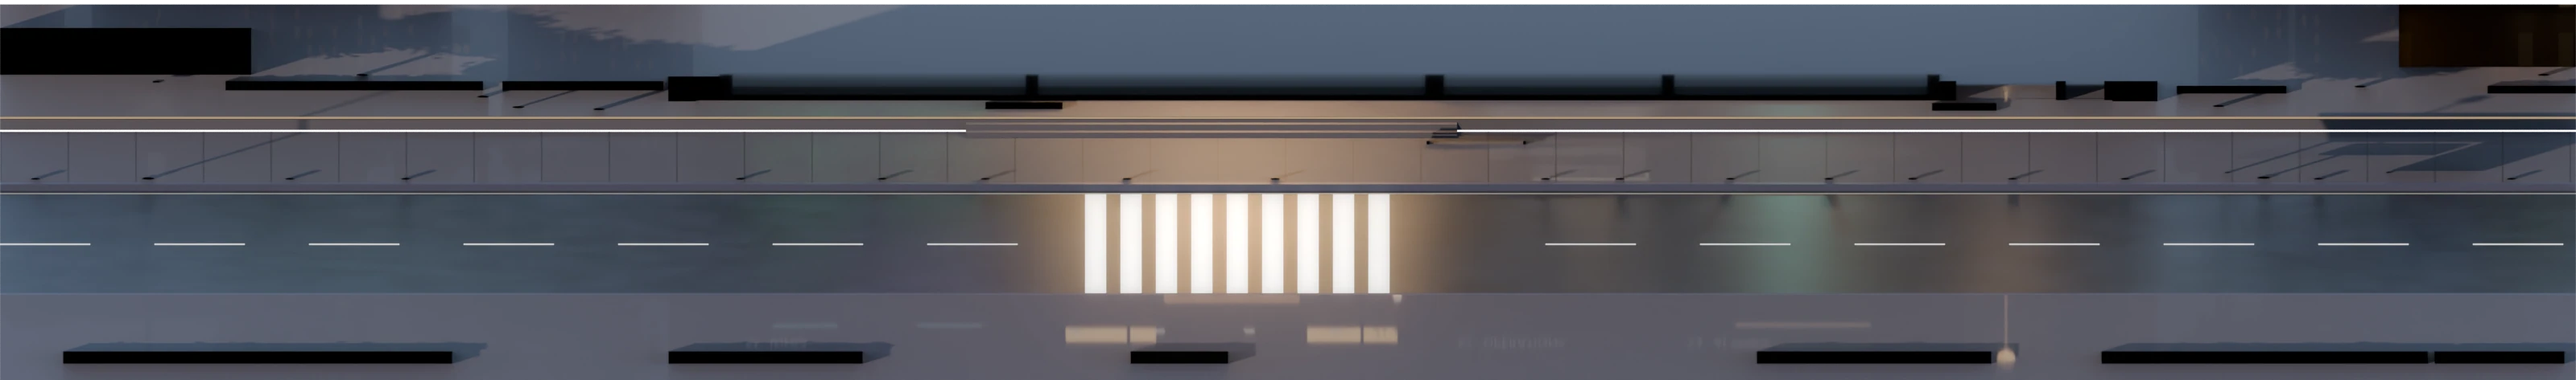
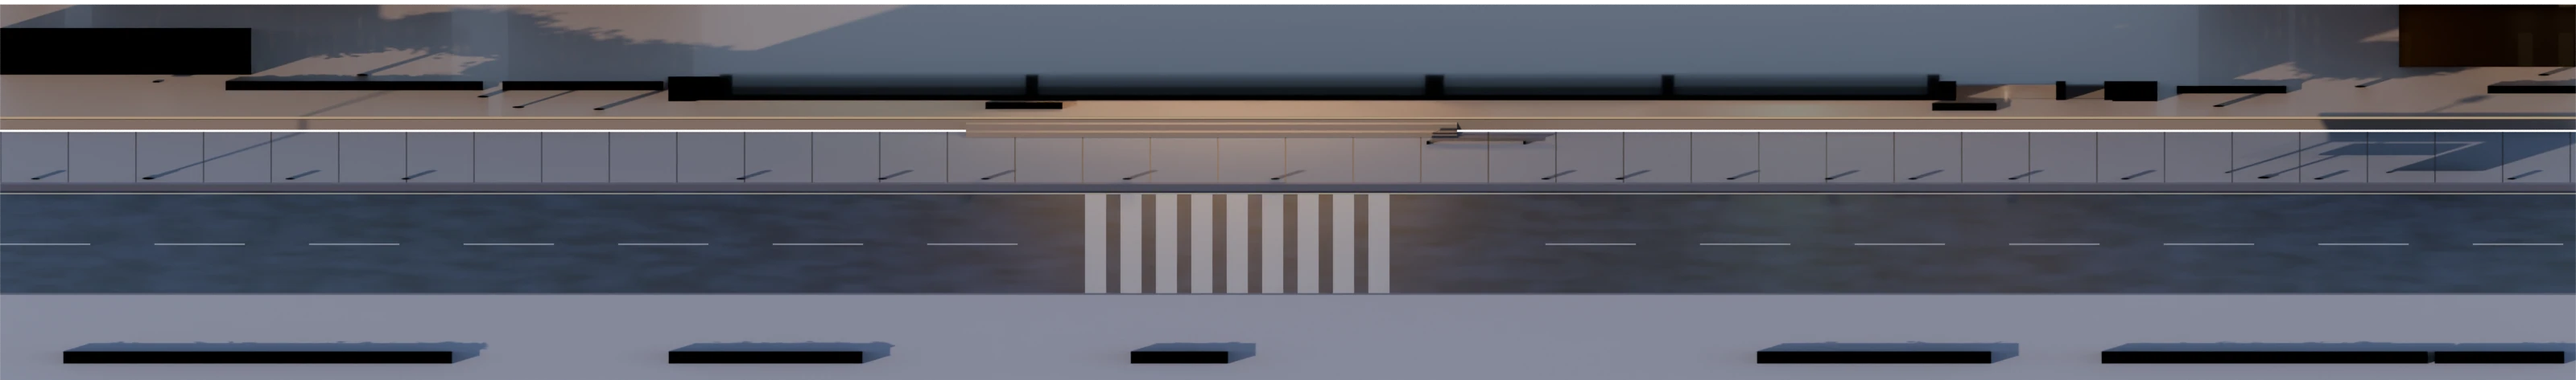
Floors, street and sky measured against the picture
The dark band over every floor was a compositing fault: the slab body sat in the shell layer, whose own render shows its top face over the invisible floors. The body now lives with the rooms. Street paint, asphalt, paving and terrace match the picture's colours; the dusk sky has an afterglow on the sunset side; racks and the vending machine are objects, spots are soft, pendants readable. Live mean colour distance 13.0 -> 11.4; L3 and the tower came out brighter and are next.

diff --git a/frontend/src/hq_sky.js b/frontend/src/hq_sky.js
@@ -125,6 +125,7 @@ export class SkyRenderer {
     }
     ctx.fillStyle = this._gradient;
     ctx.fillRect(0, 0, this.w, this.h);
+    if (time.dusk > 0.05) this.drawAfterglow(ctx, time, fx);
     const night = 1 - time.daylight;
     if (night > 0.05 && fx.cloudiness < 0.9) {
       ctx.fillStyle = '#ffffff';
@@ -136,7 +137,9 @@ export class SkyRenderer {
     }
     if (time.daylight > 0.25 && fx.cloudiness < 0.7) {
       const t = Math.min(1, Math.max(0, (time.hour - 6) / 14));
-      const sx = this.w * (0.08 + 0.84 * t);
+      // The camera looks north: the sun rises on the right and sets on the left, where the
+      // reference's sunset glows.
+      const sx = this.w * (0.92 - 0.84 * t);
       const sy = this.horizon - Math.max(0, time.elevation) * 5.5;
       const glow = ctx.createRadialGradient(sx, sy, 2, sx, sy, 90);
       glow.addColorStop(0, `rgba(255,248,220,${0.9 * (1 - fx.cloudiness)})`);
@@ -155,6 +158,40 @@ export class SkyRenderer {
       ctx.fill();
     }
     this.drawClouds(ctx, time, fx);
+  }
+
+  /**
+   * Around sunrise and sunset the sky is not level: warm low on the side the sun went down (or
+   * is coming up), a lighter blue high on the side across from it.
+   * @param {CanvasRenderingContext2D} ctx
+   * @param {{dusk:number, hour:number}} time
+   * @param {{cloudiness:number, fog:number}} fx
+   */
+  drawAfterglow(ctx, time, fx) {
+    const a = time.dusk * (1 - Math.min(0.85, fx.cloudiness * 0.75 + fx.fog * 0.5));
+    if (a <= 0.02) return;
+    const sunSide = time.hour < 12 ? this.w : 0;
+    // both glows are ellipses, flattened so the warmth stays on the horizon and the blue up high
+    ctx.save();
+    ctx.translate(sunSide, this.horizon);
+    ctx.scale(1, 0.28);
+    const warm = ctx.createRadialGradient(0, 0, 10, 0, 0, this.w * 0.5);
+    warm.addColorStop(0, `rgba(250,160,110,${0.5 * a})`);
+    warm.addColorStop(0.5, `rgba(214,120,110,${0.22 * a})`);
+    warm.addColorStop(1, 'rgba(214,120,110,0)');
+    ctx.fillStyle = warm;
+    ctx.fillRect(-this.w, -this.horizon / 0.28, this.w * 2, (this.h / 0.28) * 2);
+    ctx.restore();
+    const across = time.hour < 12 ? this.w * 0.14 : this.w * 0.86;
+    ctx.save();
+    ctx.translate(across, 20);
+    ctx.scale(1, 0.55);
+    const cool = ctx.createRadialGradient(0, 0, 10, 0, 0, this.w * 0.26);
+    cool.addColorStop(0, `rgba(100,146,220,${0.7 * a})`);
+    cool.addColorStop(1, 'rgba(100,146,220,0)');
+    ctx.fillStyle = cool;
+    ctx.fillRect(-this.w * 0.3, -60, this.w * 0.6, this.w * 0.6);
+    ctx.restore();
   }
 
   /**

diff --git a/art-source/blender/hq/hq_building.py b/art-source/blender/hq/hq_building.py
@@ -23,7 +23,6 @@ from hq_lib import (
     frame_picture,
     gradient_emission,
     image_material,
-    led_material,
     lin,
     monitor,
     panel_material,
@@ -142,18 +141,20 @@ def materials():
         "frame_hi": principled("frame_hi", "#566077", rough=0.3, metal=0.6),
         "stone": brick_material("stone", "#6c6a72", "#605e67", "#2e2d33", brick_w=0.95, row_h=0.48, rough=0.75),
         "roof": principled("roof", "#1c2338", rough=0.65),
-        "slab": principled("slab", "#3a3d52", rough=0.55, metal=0.15),
+        "slab": principled("slab", "#2f3857", rough=0.55, metal=0.15),
         "sign_glass": principled("sign_glass", "#080b16", rough=0.18, metal=0.2),
         "gold": emissive("gold_text", "#f4c47f", 5.5),
         "gold_dim": emissive("gold_dim", "#e9b56f", 3.2),
         "edge_led": emissive("edge_led", "#ffd7a0", 1.6),
+        "edge_led_warm": emissive("edge_led_warm", "#ffc070", 3.0),
+        "edge_led_slab": emissive("edge_led_slab", "#ffd7a0", 0.8),
         "label": principled("label_dark", "#2a2938", rough=0.4),
         "label_text": emissive("label_text", "#eef1f8", 3.2),
         "label_text_dim": emissive("label_text_dim", "#c9cfdc", 2.4),
         "glass": principled("glass", "#8fa6c0", rough=0.04, alpha=0.1),
         "glass_dark": principled("glass_dark", "#1b2633", rough=0.08, alpha=0.55),
-        "console": principled("console", "#f1ebe2", rough=0.32, emit="#fff4e6", strength=0.35),
-        "console_top": emissive("console_top", "#fff2dd", 6.0),
+        "console": principled("console", "#f1ebe2", rough=0.32, emit="#fff4e6", strength=0.12),
+        "console_top": emissive("console_top", "#fff2dd", 1.8),
         "console_slot": principled("console_slot", "#2a2b33", rough=0.4),
         "desk": principled("desk_dark", "#2d2b31", rough=0.45),
         "desk_top": principled("desk_top", "#3a3439", rough=0.35),
@@ -202,6 +203,43 @@ def console(mb, cx, width_px, level, mat, y0=0.32, y1=0.9, height=0.95):
     mb.box(x0 + (x1 - x0) * 0.3, x1 - (x1 - x0) * 0.3, y0 - 0.012, y0 - 0.005, f + 0.21, f + 0.28, mat["console_top"])
 
 
+def rack_front(mb, glow, x0, x1, z0, z1, y, seed):
+    """A rack face: dark units with slot lines and a few steady status lamps. The canvas adds the
+    blinking that follows how busy the studio is."""
+    mb.front_quad(x0, x1, z0, z1, y, principled("rack_face", "#0b0e13", rough=0.35, metal=0.3))
+    unit = principled("rack_unit", "#1c222b", rough=0.4, metal=0.4)
+    green = emissive("rack_led_green", "#4ade80", 6.0)
+    amber = emissive("rack_led_amber", "#fbbf24", 5.0)
+    rng = random.Random(seed)
+    z = z0 + 0.06
+    while z < z1 - 0.1:
+        mb.box(x0 + 0.02, x1 - 0.02, y - 0.012, y - 0.002, z, z + 0.012, unit)
+        if rng.random() < 0.7:
+            glow.box(x0 + 0.05, x0 + 0.08, y - 0.014, y - 0.004, z + 0.04, z + 0.07, amber if rng.random() < 0.15 else green)
+        if rng.random() < 0.35:
+            glow.box(x1 - 0.1, x1 - 0.07, y - 0.014, y - 0.004, z + 0.04, z + 0.07, green)
+        z += 0.14
+    glow.box(x0, x1, y - 0.012, y - 0.004, z1 - 0.05, z1 - 0.02, emissive("rack_top_bar", "#34d399", 3.0))
+
+
+def vending_front(mb, glow, x0, x1, z0, z1, y, seed):
+    """A lit vending window standing proud of the machine: shelves of cans before a bright panel."""
+    glow.front_quad(x0, x1, z0, z1, y, emissive("vending_back", "#e8f1ff", 1.6))
+    shelf = principled("vending_shelf", "#9aa3ad", rough=0.3, metal=0.8)
+    cans = [principled(f"can_{c[1:]}", c, rough=0.3, metal=0.5) for c in ("#dc2626", "#2563eb", "#16a34a", "#f59e0b", "#f8fafc", "#7c3aed")]
+    rng = random.Random(seed)
+    rows = 5
+    for r in range(rows):
+        zb = z0 + (z1 - z0) * r / rows
+        mb.box(x0, x1, y - 0.1, y - 0.005, zb, zb + 0.02, shelf)
+        x = x0 + 0.03
+        while x < x1 - 0.08:
+            w = rng.uniform(0.05, 0.07)
+            mb.box(x, x + w, y - 0.08, y - 0.03, zb + 0.02, zb + 0.02 + rng.uniform(0.12, 0.2), rng.choice(cans))
+            x += w + 0.02
+    mb.front_quad(x0, x1, z0, z1, y - 0.11, principled("vending_glass", "#9fb6cc", rough=0.05, alpha=0.12))
+
+
 def back_desk(mb, x0px, x1px, level, mat, depth=(1.75, 2.3), top=0.78):
     f = fz(level)
     x0, x1 = X(x0px), X(x1px)
@@ -229,8 +267,8 @@ def pendant(mb, coll, xpx, level, drop, mat, color="#ffc98a", energy=35.0, shade
     y = 1.6
     mb.box(x - 0.006, x + 0.006, y - 0.006, y + 0.006, zc + 0.15, c, mat["black"])
     if shade == "dome":
-        mb.cyl(x, y, zc, zc + 0.18, 0.2, mat["black"], seg=20, r_top=0.05)
-        mb.cyl(x, y, zc - 0.012, zc + 0.002, 0.18, mat["lamp_shade"], seg=20)
+        mb.cyl(x, y, zc, zc + 0.22, 0.3, mat["black"], seg=20, r_top=0.06)
+        mb.cyl(x, y, zc - 0.012, zc + 0.002, 0.27, mat["lamp_shade"], seg=20)
     else:
         mb.sphere((x, y, zc + 0.05), 0.09, mat["lamp_bulb"], seg=12, rings=8)
     light(coll, "POINT", (x, y, zc - 0.12), energy, color, radius=0.12, name="pendant")
@@ -238,7 +276,7 @@ def pendant(mb, coll, xpx, level, drop, mat, color="#ffc98a", energy=35.0, shade
     ANCHORS["lamps"].append({"x": round(col, 1), "y": round(row, 1), "color": color, "kind": "pendant"})
 
 
-def spot_row(coll, xs, level, color, energy, cone=62, blend=0.35, tilt=22, y=1.7, drop=0.55):
+def spot_row(coll, xs, level, color, energy, cone=78, blend=0.7, tilt=22, y=1.7, drop=0.55):
     for xpx in xs:
         light(
             coll, "SPOT", (X(xpx), y, cz(level) - drop), energy, color, radius=0.05, cone=cone, blend=blend,
@@ -307,8 +345,17 @@ def build(colls):
     shell.box(X(432), X(447), -0.25, BACK + 0.4, -0.35, top_z, mat["frame"])
     shell.box(X(446), X(449), -0.26, -0.25, -0.35, top_z, mat["frame_hi"])
     for lower, upper in ((0, 1), (1, 2), (2, 3), (3, 4)):
-        shell.box(X(432), X(1215), -0.18, BACK_G + 0.3, cz(lower), fz(upper), mat["slab"])
-        shell.box(X(447), X(1205), -0.2, -0.18, fz(upper) - 0.045, fz(upper) - 0.01, mat["edge_led"])
+        top = fz(upper)
+        # The slab's body is drawn with the rooms, below the floor boards. In the shell's own layer
+        # render the rooms are invisible, so a body there showed its whole top face and the canvas
+        # painted it as a dark band over every floor. The shell keeps only the slab's face.
+        rooms.box(X(432), X(1215), -0.14, BACK_G + 0.3, cz(lower), top - 0.06, mat["slab"])
+        for x0, x1 in ((432, 517), (1205, 1215)):
+            rooms.box(X(x0), X(x1), -0.14, BACK_G + 0.3, top - 0.06, top, mat["slab"])
+        shell.box(X(432), X(1215), -0.18, -0.14, cz(lower), top, mat["slab"])
+        shell.box(X(447), X(1205), -0.2, -0.18, top - 0.045, top - 0.01, mat["edge_led_slab"])
+        mid = (cz(lower) + top) / 2
+        shell.box(X(447), X(1205), -0.2, -0.18, mid - 0.015, mid + 0.01, mat["edge_led_warm"])
         shell.box(X(432), X(1215), -0.21, -0.18, cz(lower), cz(lower) + 0.05, mat["frame_hi"])
     # roof mass above L4
     shell.box(X(432), X(1215), -0.18, BACK + 0.4, cz(4), Z(30), mat["roof"])
@@ -391,7 +438,8 @@ def build_tower(shell, rooms, glow, lights, shell_c, mat):
     shell.box(X(1225), X(1300), 0.2, 2.4, Z(38, 0.2), Z(8, 1.0), mat["roof"])
     # floor bands across the tower
     for lower, upper in ((0, 1), (1, 2), (2, 3), (3, 4)):
-        shell.box(X(1205), X(1312), -0.24, 2.2, cz(lower) + 0.15, fz(upper) - 0.1, mat["frame"])
+        # shallow, so the warm shaft shows above each band as in the picture
+        shell.box(X(1205), X(1312), -0.24, 0.25, cz(lower) + 0.15, fz(upper) - 0.1, mat["frame"])
     # shaft interior: warm lit back wall, rails, cables
     shaft_back = principled("shaft_back", "#4a3a2c", rough=0.4, metal=0.3)
     rooms.box(X(1215), X(1277), 1.7, 1.9, -0.3, top, shaft_back)
@@ -437,7 +485,7 @@ def build_l4(rooms, props, leaves, pots, fronts, glow, lights, back, shell_c, ma
     f = fz(lv)
     cove(glow, 525, 1195, lv, mat["edge_led"])
     downlight_fixtures(glow, (548, 700, 860, 1020, 1160), lv, mat)
-    spot_row(lights, (548, 700, 860, 1020, 1160), lv, "#ffd29a", 135)
+    spot_row(lights, (548, 700, 860, 1020, 1160), lv, "#ffd29a", 175)
     bookshelf(props, X(532), X(587), 1.85, 2.35, f, f + 1.6, mat["wood_dark"], mat["books"], shelves=4, seed=4)
     plant(leaves, pots, X(560), 2.1, f + 1.6, 0.45, mat["leaf"], mat["pot_white"], pot_h=0.14, pot_r=0.1, n=9, seed=41, style="bush")
     plant(leaves, pots, X(606), 1.7, f, 0.9, mat["leaf"], mat["pot_white"], pot_h=0.4, pot_r=0.17, n=12, seed=42)
@@ -493,8 +541,8 @@ def build_l3(rooms, props, leaves, pots, fronts, glow, lights, back, shell_c, ma
     label_panel(rooms, shell_c, lv, "L3", "RESEARCH", mat)
     f = fz(lv)
     downlight_fixtures(glow, (560, 650, 770, 860, 960, 1060, 1150), lv, mat)
-    spot_row(lights, (560, 650, 770, 860, 960, 1060, 1150), lv, "#f0f2ff", 330, cone=50, blend=0.2, tilt=26)
-    light(lights, "AREA", (X(860), 0.4, cz(lv) - 0.9), 90.0, "#c8d0ff", radius=9.0, rot=(math.radians(35), 0, 0), name="l3_fill")
+    spot_row(lights, (560, 650, 770, 860, 960, 1060, 1150), lv, "#f0f2ff", 260, cone=72, blend=0.65, tilt=26)
+    light(lights, "AREA", (X(860), 0.4, cz(lv) - 0.9), 150.0, "#c8d0ff", radius=9.0, rot=(math.radians(35), 0, 0), name="l3_fill")
     plant(leaves, pots, X(530), 1.6, f, 0.9, mat["leaf"], mat["pot_white"], pot_h=0.32, pot_r=0.15, n=12, seed=31)
     bookshelf(props, X(537), X(587), 1.85, 2.35, f, f + 1.8, mat["wood_dark"], mat["books"], shelves=5, seed=3)
     wall_window(props, 602, 652, 202, 235, mat)
@@ -615,7 +663,7 @@ def build_l1(rooms, props, leaves, pots, fronts, glow, lights, back, shell_c, ma
     rooms.box(X(862), X(868), -0.2, BACK + 0.2, f, cz(lv), mat["frame"])
     purple = "#b56cff"
     downlight_fixtures(glow, (566, 700, 812), lv, mat)
-    spot_row(lights, (566, 700, 812), lv, purple, 150, cone=64, blend=0.3, tilt=22)
+    spot_row(lights, (566, 700, 812), lv, purple, 150, cone=76, blend=0.65, tilt=22)
     neon = emissive("neon_purple", "#e7a6ff", 14.0)
     glow.box(X(548), X(551), BACK - 0.08, BACK - 0.03, wz(476), wz(425), neon)
     glow.box(X(548), X(556), BACK - 0.08, BACK - 0.03, wz(428), wz(425), neon)
@@ -650,7 +698,7 @@ def build_l1(rooms, props, leaves, pots, fronts, glow, lights, back, shell_c, ma
         xs = 822 + i * 5.2
         props.box(X(xs), X(xs + 3.4), BACK - 0.12, BACK - 0.02, wz(496), wz(424), slat)
     # render bay
-    spot_row(lights, (930, 1040, 1150), lv, "#cfd8ff", 90, cone=60, blend=0.3, tilt=22)
+    spot_row(lights, (930, 1040, 1150), lv, "#cfd8ff", 90, cone=74, blend=0.65, tilt=22)
     downlight_fixtures(glow, (930, 1040, 1150), lv, mat)
     props.box(X(876), X(943), BACK - 0.1, BACK - 0.02, wz(484), wz(418), principled("render_frame", "#0d0f15", rough=0.3))
     props.front_quad(X(879), X(940), wz(481), wz(421), BACK - 0.105, principled("render_display", "#060a12", rough=0.12, emit="#0c1a2c", strength=1.0))
@@ -671,7 +719,7 @@ def build_l1(rooms, props, leaves, pots, fronts, glow, lights, back, shell_c, ma
     props.box(X(1108), X(1124), 1.95, 2.05, f + 1.8, f + 1.95, mat["lamp_shade"])
     light(lights, "POINT", (X(1116), 1.9, f + 1.75), 22, "#ffd49a", radius=0.12, name="render_lamp")
     props.box(X(1135), X(1181), 1.8, 2.35, f, f + 1.7, principled("rack", "#14161c", rough=0.35, metal=0.3))
-    props.front_quad(X(1138), X(1178), f + 0.08, f + 1.62, 1.79, led_material("rack_leds_l1", strength=6.0))
+    rack_front(props, glow, X(1138), X(1178), f + 0.08, f + 1.62, 1.79, seed=1138)
 
 
 def build_ground(shell, rooms, props, leaves, pots, fronts, glow, lights, back, shell_c, mat):
@@ -702,7 +750,7 @@ def build_ground(shell, rooms, props, leaves, pots, fronts, glow, lights, back, 
         glow.box(X(xp), X(xp) + 0.02, BACK_G - 0.03, BACK_G, 0.2, c - 0.6, grid)
     for x0, x1 in ((466, 492), (500, 527), (556, 583), (591, 619)):
         props.box(X(x0), X(x1), 1.2, 2.2, f, 2.62, principled("rack_body", "#101318", rough=0.35, metal=0.35))
-        props.front_quad(X(x0 + 2), X(x1 - 2), 0.12, 2.5, 1.195, led_material("rack_leds", strength=7.0))
+        rack_front(props, glow, X(x0 + 2), X(x1 - 2), 0.12, 2.5, 1.195, seed=x0)
     ANCHORS["displays"]["server_racks"] = {"rects": [px_rect(X(a), X(b), 0.12, 2.5, 1.19) for a, b in ((466, 492), (500, 527), (556, 583), (591, 619))], "zone": "server_corner"}
     for xp in (500, 590):
         glow.box(X(xp - 20), X(xp + 20), 1.0, 1.3, c - 0.62, c - 0.58, emissive("infra_bar", "#a5f3fc", 5.0))
@@ -726,7 +774,7 @@ def build_ground(shell, rooms, props, leaves, pots, fronts, glow, lights, back, 
     light(lights, "SPOT", (X(747), 1.0, c - 0.4), 220, "#ffd7a0", radius=0.1, cone=55, blend=0.5, rot=(math.radians(30), 0, 0), name="feature_spot")
     light(lights, "AREA", (X(690), 1.6, c - 0.3), 260, "#ffcf8a", radius=2.0, name="lobby_fill_l")
     light(lights, "AREA", (X(840), 1.6, c - 0.3), 260, "#ffcf8a", radius=2.0, name="lobby_fill_r")
-    light(lights, "AREA", (X(765), -0.6, 2.6), 170, "#ffc27a", radius=3.0, rot=(math.radians(-25), 0, 0), name="lobby_spill")
+    light(lights, "AREA", (X(765), -0.6, 2.6), 80, "#ffc27a", radius=3.0, rot=(math.radians(-25), 0, 0), name="lobby_spill")
     for xp in (668, 720, 776, 830):
         glow.box(X(xp) - 0.12, X(xp) + 0.12, 1.0, 1.2, Z(533) - 0.05, Z(533), mat["lamp_bulb"])
     plant(leaves, pots, X(668), 2.5, f, 2.1, mat["leaf"], mat["pot_dark"], pot_h=0.55, pot_r=0.25, n=16, seed=51)
@@ -802,7 +850,7 @@ def build_ground(shell, rooms, props, leaves, pots, fronts, glow, lights, back, 
     text(shell_c, "IDEAS\nTOOLS\nPEOPLE\nIMPACT", X(1146), BACK_G - 0.04, Z(582, BACK_G), 0.32, emissive("ai_words", "#d6dee2", 2.4), line=1.1, name="ai_words")
     ANCHORS["displays"]["ad_wall"] = {"rect": px_rect(X(1052), X(1190), Z(640, BACK_G), Z(548, BACK_G), BACK_G - 0.05), "zone": "ad_shop"}
     props.box(X(1056), X(1082), 1.6, 2.4, 0.0, 2.1, principled("vending", "#1c1f26", rough=0.35, metal=0.3))
-    props.front_quad(X(1058), X(1080), 0.6, 1.95, 1.595, led_material("vending_front", on="#fca5a5", accent="#93c5fd", strength=3.0, cell=0.12))
+    vending_front(props, glow, X(1058), X(1080), 0.6, 1.95, 1.595, seed=7)
     sofa(props, X(1102), X(1182), 2.0, 2.75, f, principled("sofa_orange", "#b9632c", rough=0.55))
     plant(leaves, pots, X(1128), 2.9, f + 0.3, 0.6, mat["leaf"], mat["pot_dark"], pot_h=0.3, pot_r=0.15, n=10, seed=54, style="bush")
     props.box(X(1162), X(1192), 1.7, 2.1, 0.0, 0.55, mat["white"])

diff --git a/art-source/blender/hq/hq_city.py b/art-source/blender/hq/hq_city.py
@@ -87,7 +87,7 @@ def lamp_post(mb, lights, xpx, y, top_row, mats, side=1, name="street_lamp"):
     mb.box(x - 0.2, x + 0.2, y - 0.2, y + 0.2, top - 0.42, top - 0.34, mats["pole"])
     mb.box(x - 0.17, x + 0.17, y - 0.17, y + 0.17, top - 0.34, top + 0.14, mats["lamp_glass"])
     mb.cyl(x, y, top + 0.14, top + 0.34, 0.26, mats["pole"], seg=4, r_top=0.04)
-    light(lights, "POINT", (x, y - 0.3, top - 0.05), 1600, "#ffc27a", radius=0.25, name=name)
+    light(lights, "POINT", (x, y - 0.3, top - 0.05), 1000, "#ffc27a", radius=0.25, name=name)
     col, row = project((x, y, top))
     STREET.setdefault("lamps", []).append({"x": round(col, 1), "y": round(row, 1)})
 
@@ -127,13 +127,13 @@ def build(colls):
     mats = {
         "pole": principled("pole", "#202430", rough=0.4, metal=0.6),
         "lamp_glass": emissive("lamp_glass", "#ffd08a", 28.0),
-        "planter": principled("planter", "#2b2c36", rough=0.6),
+        "planter": principled("planter", "#3a3b48", rough=0.7),
         "planter_rim": principled("planter_rim", "#3d3f4c", rough=0.4),
         "bush": foliage_material("bush", "#23452a", "#78a64a", translucent=0.35),
         "bush_core": principled("bush_core", "#12220f", rough=0.9),
         "tree": foliage_material("tree_leaf", "#3a6a2e", "#b8d66c", translucent=0.45),
         "bark": principled("bark", "#2c241f", rough=0.8),
-        "paint": principled("road_paint", "#f0eee6", rough=0.45, emit="#f0eee6", strength=0.25),
+        "paint": principled("road_paint", "#70717e", rough=0.55),
         "led": emissive("terrace_led", "#ffd7a0", 6.0),
     }
 
@@ -143,9 +143,9 @@ def build(colls):
     y_terrace = Y(676, TERRACE_Z)
     y_walk = Y(717, WALK_Z)
     y_road = Y(790, ROAD_Z)
-    terrace = principled("terrace", "#4a4347", rough=0.55, coat=0.05)
-    walk = principled("sidewalk", "#3e383f", rough=0.62, coat=0.03)
-    curb = principled("curb", "#3c3a4a", rough=0.5)
+    terrace = principled("terrace", "#6e5c52", rough=0.55, coat=0.05)
+    walk = principled("sidewalk", "#55535f", rough=0.82)
+    curb = principled("curb", "#3c3a4a", rough=0.8)
     g.box(X(0), X(1600), y_terrace, 12.0, TERRACE_Z - 0.3, TERRACE_Z, terrace)
     g.box(X(0), X(1600), y_terrace - 0.02, y_terrace, TERRACE_Z - 0.05, TERRACE_Z - 0.01, mats["led"])
     g.box(X(0), X(1600), y_walk, y_terrace, WALK_Z - 0.3, WALK_Z, walk)
@@ -155,7 +155,8 @@ def build(colls):
     g.box(X(0), X(1600), y_walk - 0.25, y_walk, ROAD_Z, WALK_Z, curb)
     g.box(X(0), X(1600), y_road, y_walk - 0.25, ROAD_Z - 0.3, ROAD_Z, asphalt_material("asphalt_wet", wet=1.0))
     g.box(X(0), X(1600), y_road - 0.25, y_road, ROAD_Z, WALK_Z, curb)
-    g.box(X(0), X(1600), -60.0, y_road - 0.25, WALK_Z - 0.3, WALK_Z, walk)
+    # the near pavement is out of the lamps' pools; the picture keeps it a light, cool grey
+    g.box(X(0), X(1600), -60.0, y_road - 0.25, WALK_Z - 0.3, WALK_Z, principled("sidewalk_near", "#6c6a7a", rough=0.82))
     for x0 in range(674, 852, 22):
         g.box(X(x0), X(x0 + 13), y_road + 0.6, y_walk - 0.7, ROAD_Z, ROAD_Z + 0.004, mats["paint"])
     y_mid = (y_road + y_walk) / 2

diff --git a/art-source/blender/hq/hq_lib.py b/art-source/blender/hq/hq_lib.py
@@ -335,16 +335,16 @@ def asphalt_material(name, wet=1.0):
     n.inputs["Scale"].default_value = 0.18
     n.inputs["Detail"].default_value = 6.0
     n.inputs["Roughness"].default_value = 0.6
-    rough = g.ramp(n.outputs["Fac"], [(0.35, (0.3, 0.3, 0.3, 1)), (0.62, (0.72, 0.72, 0.72, 1))])
+    rough = g.ramp(n.outputs["Fac"], [(0.35, (0.5, 0.5, 0.5, 1)), (0.62, (0.85, 0.85, 0.85, 1))])
     if wet <= 0:
         rough.color_ramp.elements[0].color = (0.7, 0.7, 0.7, 1)
         rough.color_ramp.elements[1].color = (0.9, 0.9, 0.9, 1)
     g.link(rough.outputs["Color"], g.bsdf.inputs["Roughness"])
     grain = g.node("ShaderNodeTexNoise")
     grain.inputs["Scale"].default_value = 60.0
-    col = g.ramp(grain.outputs["Fac"], [(0.3, "#101219"), (0.7, "#1d2029")])
+    col = g.ramp(grain.outputs["Fac"], [(0.3, "#11141f"), (0.7, "#202538")])
     g.link(col.outputs["Color"], g.bsdf.inputs["Base Color"])
-    g.bsdf.inputs["Specular IOR Level"].default_value = 0.6
+    g.bsdf.inputs["Specular IOR Level"].default_value = 0.25
     return g.m
 
 

diff --git a/docs/project/CHANGELOG.md b/docs/project/CHANGELOG.md
@@ -1,5 +1,29 @@
 # Changelog
 
+## Floors, street and sky measured against the picture — 2026-09-13
+
+Region by region against the Owner's picture, the building still had heavy dark bands between
+floors, a pale warm road with a glowing zebra, flat skies and racks that read as green noise.
+
+- **The dark band over every floor was a compositing fault**, not the model: each plate layer is
+  rendered with the other layers invisible, and the slab's body sat in the shell layer the canvas
+  draws after the rooms, so its whole top face was painted over the floors. The slab body now
+  lives with the rooms; the shell keeps its navy face with a warm LED line, as in the picture.
+  The lift tower's floor bands are shallow, so the lit shaft shows above them.
+- **The street is dark, cool and matte where it should be**: plain grey road paint instead of
+  self-lit stripes, asphalt that no longer mirrors the lit facade at the camera's grazing angle,
+  matte paving (it had mirrored the S2 and S3 labels), a warm stone terrace, softer street lamps.
+- **The sky is not level at dusk**: the camera looks north, so the sun sets on the left; a warm
+  afterglow hugs that horizon and a lighter blue sits high across from it, as in the picture.
+- **Rooms**: server racks are dark units with slot lines and steady lamps (the canvas still adds
+  the blinking that follows the studio's work), the S3 vending machine has shelves of cans,
+  spot cones on the back walls are wide and soft, pendant lamps are big enough to read, console
+  tops no longer glow white, and L3 and L4 are as bright as the picture's.
+- **Measured on the live page at the picture's light**: mean colour distance 13.0 → 11.4; L4
+  11.5 → 3.5, L2 15.7 → 7.5, L1 11.3 → 5.0, ground floor 6.2 → 4.4, street 19.4 → 13.8.
+  Regressions still open: L3 (13.5 → 17.0) and the lift tower (13.9 → 17.4) now come out
+  brighter than the picture once bloom is added.
+
 ## Cars that read as cars — 2026-09-13
 
 Next to the picture's rounded SUVs and sedans, the street's cars still looked like stacked boxes.

diff --git a/docs/project/HQ_LIVING_OFFICE.md b/docs/project/HQ_LIVING_OFFICE.md
@@ -91,6 +91,10 @@ python art-source/blender/hq/pack_vehicles.py <renders> frontend/public/assets/h
 - Plates are rendered layer by layer with the other layers present but invisible to the camera,
   so light, shadow and reflection are the whole scene's; bloom is added in post, then each layer
   is cropped to what it covers and saved as WebP (the eighteen plates weigh 2.6 MB).
+- Because a layer is rendered without the others in view, a surface that only an earlier-drawn
+  layer hides is painted over it on the page. Put geometry in the layer of whatever covers it:
+  the slab's body is modelled with the rooms (the floor covers its top), only its face is shell.
+  The flattened `--preview` cannot show this kind of fault; check it on a live screenshot.
 - Cars are lofted from side profiles (`PROFILES` in `build_vehicles.py`: beltline and roof
   height along the length, a glasshouse leaning in, the plan rounded at the bumpers), with wheel
   arches, door seams, mirrors and lamps that wrap round the corners like the reference's
